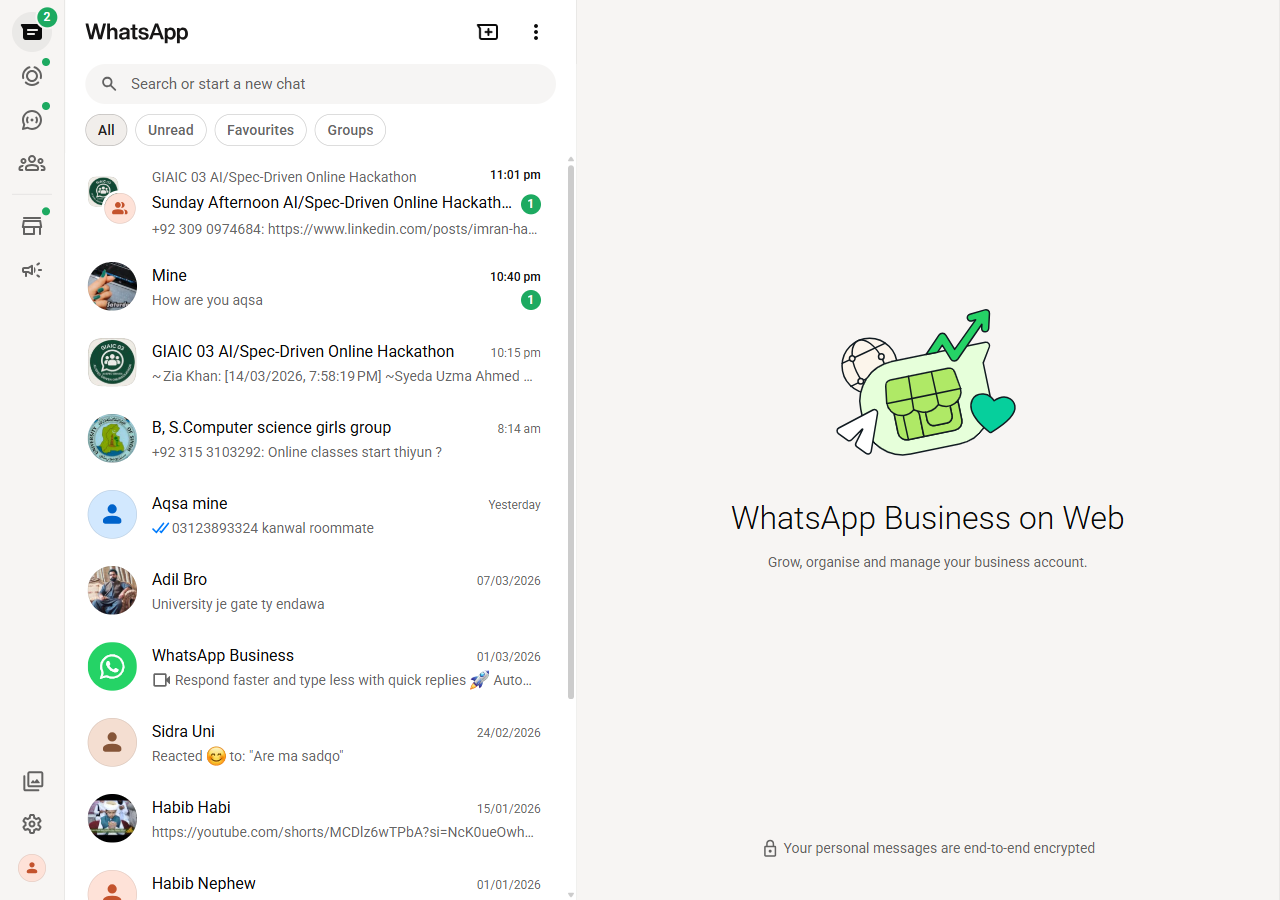
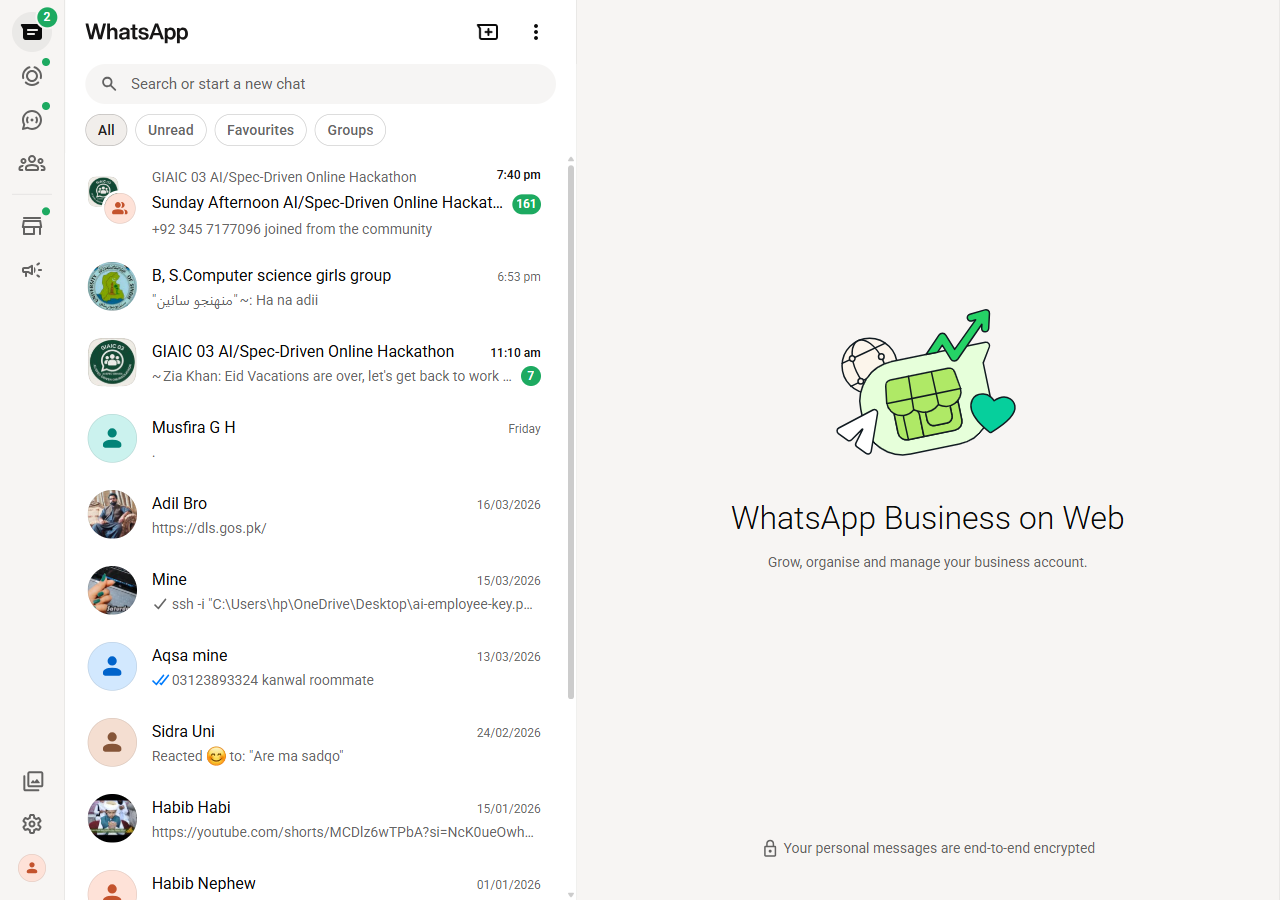
.

diff --git a/AI_Employee_Vault/Pending_Approval/WHATSAPP_REPLY_2026-03-24_GIAIC_03_AI_Spec-Driven_Online_Hackathon.md b/AI_Employee_Vault/Pending_Approval/WHATSAPP_REPLY_2026-03-24_GIAIC_03_AI_Spec-Driven_Online_Hackathon.md
@@ -1,0 +1,25 @@
+---
+type: whatsapp_reply
+contact: GIAIC 03 AI/Spec-Driven Online Hackathon
+drafted: 2026-03-24T15:37:36.554597+00:00
+status: pending_approval
+---
+
+# WhatsApp Reply — GIAIC 03 AI/Spec-Driven Online Hackathon — 2026-03-24
+
+> **To:** GIAIC 03 AI/Spec-Driven Online Hackathon
+> **Original message:**
+- (no text)
+
+---
+
+## Reply Content
+
+(AI draft failed — edit this reply before approving)
+
+---
+
+## Instructions
+- **APPROVE:** Move to `/Approved/` — WhatsApp Watcher will auto-send it
+- **EDIT:** Edit Reply Content above, then move to `/Approved/`
+- **REJECT:** Move to `/Rejected/`

diff --git a/AI_Employee_Vault/Pending_Approval/WHATSAPP_REPLY_2026-03-24_B__S_Computer_science_girls_group.md b/AI_Employee_Vault/Pending_Approval/WHATSAPP_REPLY_2026-03-24_B__S_Computer_science_girls_group.md
@@ -1,0 +1,25 @@
+---
+type: whatsapp_reply
+contact: B, S.Computer science girls group
+drafted: 2026-03-24T15:38:56.597641+00:00
+status: pending_approval
+---
+
+# WhatsApp Reply — B, S.Computer science girls group — 2026-03-24
+
+> **To:** B, S.Computer science girls group
+> **Original message:**
+- (no text)
+
+---
+
+## Reply Content
+
+(AI draft failed — edit this reply before approving)
+
+---
+
+## Instructions
+- **APPROVE:** Move to `/Approved/` — WhatsApp Watcher will auto-send it
+- **EDIT:** Edit Reply Content above, then move to `/Approved/`
+- **REJECT:** Move to `/Rejected/`

diff --git a/AI_Employee_Vault/Inbox/WHATSAPP_20260324_203735_GIAIC_03_AI_Spec-Driven_Online_Hackathon.md b/AI_Employee_Vault/Inbox/WHATSAPP_20260324_203735_GIAIC_03_AI_Spec-Driven_Online_Hackathon.md
@@ -1,0 +1,23 @@
+---
+type: whatsapp_message
+contact: GIAIC 03 AI/Spec-Driven Online Hackathon
+received: 2026-03-24T15:37:35.242466+00:00
+status: needs_action
+---
+
+# WhatsApp — GIAIC 03 AI/Spec-Driven Online Hackathon — 2026-03-24 20:37
+
+> **From:** GIAIC 03 AI/Spec-Driven Online Hackathon
+> **Received:** 2026-03-24 20:37:35
+
+---
+
+## Messages
+
+- (no text)
+
+---
+
+## Instructions
+- Run `/process-inbox` to let Claude draft a reply
+- Reply file will appear in `Pending_Approval/WHATSAPP_REPLY_*.md`

diff --git a/AI_Employee_Vault/Inbox/WHATSAPP_20260324_203855_B__S_Computer_science_girls_group.md b/AI_Employee_Vault/Inbox/WHATSAPP_20260324_203855_B__S_Computer_science_girls_group.md
@@ -1,0 +1,23 @@
+---
+type: whatsapp_message
+contact: B, S.Computer science girls group
+received: 2026-03-24T15:38:55.517001+00:00
+status: needs_action
+---
+
+# WhatsApp — B, S.Computer science girls group — 2026-03-24 20:38
+
+> **From:** B, S.Computer science girls group
+> **Received:** 2026-03-24 20:38:55
+
+---
+
+## Messages
+
+- (no text)
+
+---
+
+## Instructions
+- Run `/process-inbox` to let Claude draft a reply
+- Reply file will appear in `Pending_Approval/WHATSAPP_REPLY_*.md`
